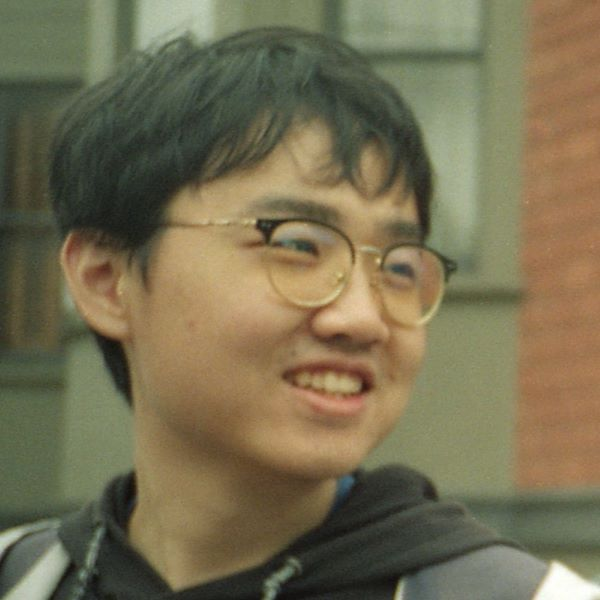
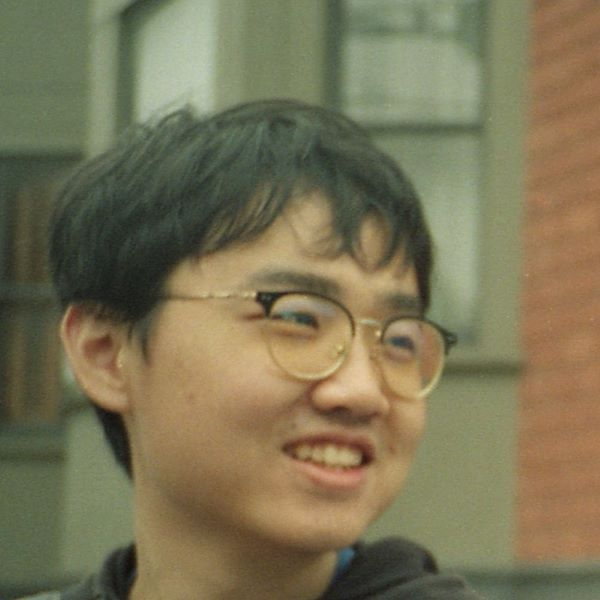
Site updated: 2024-02-05 12:28:25

diff --git a/Experience/index.html b/Experience/index.html
@@ -1,5 +1,5 @@
 <!DOCTYPE html><html lang="en"><head><meta charset="UTF-8"><meta http-equiv="X-UA-Compatible" content="IE=edge"><meta name="viewport" content="width=device-width, initial-scale=1, maximum-scale=5"><title>Fang Chen (谌放)</title><meta name="author" content="Fang Chen"><link rel="shortcut icon" href="/img/favicon.png"><link rel="stylesheet" href="/css/index.css"><link rel="stylesheet" href="https://cdn.jsdelivr.net/npm/font-awesome@latest/css/font-awesome.min.css"><link rel="stylesheet" href="https://cdn.jsdelivr.net/npm/@fortawesome/fontawesome-free@5.13.0/css/all.min.css"><meta name="generator" content="Hexo 7.1.1"><link rel="alternate" href="/atom.xml" title="Fang Chen (谌放)" type="application/atom+xml">
-</head><body><header id="page_header"><div class="header_wrap"><div id="blog_name"><a class="blog_title" id="site-name" href="/">Fang Chen (谌放)</a></div><button class="menus_icon"><div class="navicon"></div></button><ul class="menus_items"><li class="menus_item"><a class="site-page" href="/Publications"> Publications</a></li><li class="menus_item"><a class="site-page" href="/Experience"> Experience</a></li><li class="menus_item"><a class="site-page" href="/Teaching"> Teaching</a></li></ul></div></header><main id="page_main"><div class="side-card sticky"><div class="card-wrap" itemscope itemtype="http://schema.org/Person"><div class="author-avatar"><img class="avatar-img" src="/img/profile.jpg" onerror="this.onerror=null;this.src='/img/profile_new.jpg'" alt="avatar"></div><div class="author-discrip"><h3>Fang Chen</h3><p class="author-bio">Ph.D. student @ University of California Merced</p></div><div class="author-links"><button class="btn m-social-links">Links</button><ul class="social-icons"><li><a class="social-icon" href="https://github.com/C-Fun" target="_blank"><i class="fab fa-github" aria-hidden="true"></i></a></li><li><a class="social-icon" href="https://www.linkedin.com/in/cfun/" target="_blank"><i class="fab fa-linkedin" aria-hidden="true"></i></a></li><li><a class="social-icon" href="mailto:fchen20@ucmerced.edu" target="_blank"><i class="fas fa-envelope" aria-hidden="true"></i></a></li></ul><ul class="social-links"><li><a class="e-social-link" href="https://scholar.google.com/citations?user=5Hu8vwwAAAAJ&amp;hl=en&amp;authuser=1" target="_blank"><i class="fas fa-graduation-cap" aria-hidden="true"></i><span>Google Scholar</span></a></li></ul></div><a class="cv-links" href="/attaches/CV.pdf" target="_blank"><i class="fas fa-file-pdf" aria-hidden="true"><span>My Curriculum Vitae</span></i></a></div></div><div class="page" itemscope itemtype="http://schema.org/CreativeWork"><h2 class="page-title">Experience</h2><article><ul>
+</head><body><header id="page_header"><div class="header_wrap"><div id="blog_name"><a class="blog_title" id="site-name" href="/">Fang Chen (谌放)</a></div><button class="menus_icon"><div class="navicon"></div></button><ul class="menus_items"><li class="menus_item"><a class="site-page" href="/Publications"> Publications</a></li><li class="menus_item"><a class="site-page" href="/Experience"> Experience</a></li><li class="menus_item"><a class="site-page" href="/Teaching"> Teaching</a></li></ul></div></header><main id="page_main"><div class="side-card sticky"><div class="card-wrap" itemscope itemtype="http://schema.org/Person"><div class="author-avatar"><img class="avatar-img" src="/img/profile_new.jpg" onerror="this.onerror=null;this.src='/img/profile_new.jpg'" alt="avatar"></div><div class="author-discrip"><h3>Fang Chen</h3><p class="author-bio">Ph.D. student @ University of California Merced</p></div><div class="author-links"><button class="btn m-social-links">Links</button><ul class="social-icons"><li><a class="social-icon" href="https://github.com/C-Fun" target="_blank"><i class="fab fa-github" aria-hidden="true"></i></a></li><li><a class="social-icon" href="https://www.linkedin.com/in/cfun/" target="_blank"><i class="fab fa-linkedin" aria-hidden="true"></i></a></li><li><a class="social-icon" href="mailto:fchen20@ucmerced.edu" target="_blank"><i class="fas fa-envelope" aria-hidden="true"></i></a></li></ul><ul class="social-links"><li><a class="e-social-link" href="https://scholar.google.com/citations?user=5Hu8vwwAAAAJ&amp;hl=en&amp;authuser=1" target="_blank"><i class="fas fa-graduation-cap" aria-hidden="true"></i><span>Google Scholar</span></a></li></ul></div><a class="cv-links" href="/attaches/CV.pdf" target="_blank"><i class="fas fa-file-pdf" aria-hidden="true"><span>My Curriculum Vitae</span></i></a></div></div><div class="page" itemscope itemtype="http://schema.org/CreativeWork"><h2 class="page-title">Experience</h2><article><ul>
 <li><a target="_blank" rel="noopener" href="https://intelailabpage.github.io/"><strong>Intel AI Lab</strong></a> | Graduate Intern (May 2022 - Jan. 2023)</li>
 </ul>
 </article></div></main><div class="nav-wrap"><div class="nav"><button class="site-nav"><div class="navicon"></div></button><ul class="nav_items"><li class="nav_item"><a class="nav-page" href="/Publications"> Publications</a></li><li class="nav_item"><a class="nav-page" href="/Experience"> Experience</a></li><li class="nav_item"><a class="nav-page" href="/Teaching"> Teaching</a></li></ul></div><div class="cd-top"><i class="fa fa-arrow-up" aria-hidden="true"></i></div></div><footer id="page_footer"><div class="footer_wrap"><div class="copyright">&copy;2021 - 2024 by Fang Chen</div><div class="theme-info">Powered by <a target="_blank" href="https://hexo.io" rel="nofollow noopener">Hexo</a> & <a target="_blank" href="https://github.com/PhosphorW/hexo-theme-academia" rel="nofollow noopener">Academia Theme</a></div></div></footer><script src="https://cdn.jsdelivr.net/npm/jquery@latest/dist/jquery.min.js"></script><script src="https://cdn.jsdelivr.net/npm/jquery-pjax@latest/jquery.pjax.min.js"></script><script src="/js/main.js"></script></body></html>

diff --git a/Teaching/index.html b/Teaching/index.html
@@ -1,5 +1,5 @@
 <!DOCTYPE html><html lang="en"><head><meta charset="UTF-8"><meta http-equiv="X-UA-Compatible" content="IE=edge"><meta name="viewport" content="width=device-width, initial-scale=1, maximum-scale=5"><title>Fang Chen (谌放)</title><meta name="author" content="Fang Chen"><link rel="shortcut icon" href="/img/favicon.png"><link rel="stylesheet" href="/css/index.css"><link rel="stylesheet" href="https://cdn.jsdelivr.net/npm/font-awesome@latest/css/font-awesome.min.css"><link rel="stylesheet" href="https://cdn.jsdelivr.net/npm/@fortawesome/fontawesome-free@5.13.0/css/all.min.css"><meta name="generator" content="Hexo 7.1.1"><link rel="alternate" href="/atom.xml" title="Fang Chen (谌放)" type="application/atom+xml">
-</head><body><header id="page_header"><div class="header_wrap"><div id="blog_name"><a class="blog_title" id="site-name" href="/">Fang Chen (谌放)</a></div><button class="menus_icon"><div class="navicon"></div></button><ul class="menus_items"><li class="menus_item"><a class="site-page" href="/Publications"> Publications</a></li><li class="menus_item"><a class="site-page" href="/Experience"> Experience</a></li><li class="menus_item"><a class="site-page" href="/Teaching"> Teaching</a></li></ul></div></header><main id="page_main"><div class="side-card sticky"><div class="card-wrap" itemscope itemtype="http://schema.org/Person"><div class="author-avatar"><img class="avatar-img" src="/img/profile.jpg" onerror="this.onerror=null;this.src='/img/profile_new.jpg'" alt="avatar"></div><div class="author-discrip"><h3>Fang Chen</h3><p class="author-bio">Ph.D. student @ University of California Merced</p></div><div class="author-links"><button class="btn m-social-links">Links</button><ul class="social-icons"><li><a class="social-icon" href="https://github.com/C-Fun" target="_blank"><i class="fab fa-github" aria-hidden="true"></i></a></li><li><a class="social-icon" href="https://www.linkedin.com/in/cfun/" target="_blank"><i class="fab fa-linkedin" aria-hidden="true"></i></a></li><li><a class="social-icon" href="mailto:fchen20@ucmerced.edu" target="_blank"><i class="fas fa-envelope" aria-hidden="true"></i></a></li></ul><ul class="social-links"><li><a class="e-social-link" href="https://scholar.google.com/citations?user=5Hu8vwwAAAAJ&amp;hl=en&amp;authuser=1" target="_blank"><i class="fas fa-graduation-cap" aria-hidden="true"></i><span>Google Scholar</span></a></li></ul></div><a class="cv-links" href="/attaches/CV.pdf" target="_blank"><i class="fas fa-file-pdf" aria-hidden="true"><span>My Curriculum Vitae</span></i></a></div></div><div class="page" itemscope itemtype="http://schema.org/CreativeWork"><h2 class="page-title">Teaching</h2><article><ul>
+</head><body><header id="page_header"><div class="header_wrap"><div id="blog_name"><a class="blog_title" id="site-name" href="/">Fang Chen (谌放)</a></div><button class="menus_icon"><div class="navicon"></div></button><ul class="menus_items"><li class="menus_item"><a class="site-page" href="/Publications"> Publications</a></li><li class="menus_item"><a class="site-page" href="/Experience"> Experience</a></li><li class="menus_item"><a class="site-page" href="/Teaching"> Teaching</a></li></ul></div></header><main id="page_main"><div class="side-card sticky"><div class="card-wrap" itemscope itemtype="http://schema.org/Person"><div class="author-avatar"><img class="avatar-img" src="/img/profile_new.jpg" onerror="this.onerror=null;this.src='/img/profile_new.jpg'" alt="avatar"></div><div class="author-discrip"><h3>Fang Chen</h3><p class="author-bio">Ph.D. student @ University of California Merced</p></div><div class="author-links"><button class="btn m-social-links">Links</button><ul class="social-icons"><li><a class="social-icon" href="https://github.com/C-Fun" target="_blank"><i class="fab fa-github" aria-hidden="true"></i></a></li><li><a class="social-icon" href="https://www.linkedin.com/in/cfun/" target="_blank"><i class="fab fa-linkedin" aria-hidden="true"></i></a></li><li><a class="social-icon" href="mailto:fchen20@ucmerced.edu" target="_blank"><i class="fas fa-envelope" aria-hidden="true"></i></a></li></ul><ul class="social-links"><li><a class="e-social-link" href="https://scholar.google.com/citations?user=5Hu8vwwAAAAJ&amp;hl=en&amp;authuser=1" target="_blank"><i class="fas fa-graduation-cap" aria-hidden="true"></i><span>Google Scholar</span></a></li></ul></div><a class="cv-links" href="/attaches/CV.pdf" target="_blank"><i class="fas fa-file-pdf" aria-hidden="true"><span>My Curriculum Vitae</span></i></a></div></div><div class="page" itemscope itemtype="http://schema.org/CreativeWork"><h2 class="page-title">Teaching</h2><article><ul>
 <li><strong>CSE 170: Computer Graphics, Lab Session</strong> | undergraduate course, UC Merced, 2024 spring</li>
 </ul>
 </article></div></main><div class="nav-wrap"><div class="nav"><button class="site-nav"><div class="navicon"></div></button><ul class="nav_items"><li class="nav_item"><a class="nav-page" href="/Publications"> Publications</a></li><li class="nav_item"><a class="nav-page" href="/Experience"> Experience</a></li><li class="nav_item"><a class="nav-page" href="/Teaching"> Teaching</a></li></ul></div><div class="cd-top"><i class="fa fa-arrow-up" aria-hidden="true"></i></div></div><footer id="page_footer"><div class="footer_wrap"><div class="copyright">&copy;2021 - 2024 by Fang Chen</div><div class="theme-info">Powered by <a target="_blank" href="https://hexo.io" rel="nofollow noopener">Hexo</a> & <a target="_blank" href="https://github.com/PhosphorW/hexo-theme-academia" rel="nofollow noopener">Academia Theme</a></div></div></footer><script src="https://cdn.jsdelivr.net/npm/jquery@latest/dist/jquery.min.js"></script><script src="https://cdn.jsdelivr.net/npm/jquery-pjax@latest/jquery.pjax.min.js"></script><script src="/js/main.js"></script></body></html>

diff --git a/2024/01/23/About/index.html b/2024/01/23/About/index.html
@@ -1,5 +1,5 @@
 <!DOCTYPE html><html lang="en"><head><meta charset="UTF-8"><meta http-equiv="X-UA-Compatible" content="IE=edge"><meta name="viewport" content="width=device-width, initial-scale=1, maximum-scale=5"><title>Fang Chen (谌放)</title><meta name="author" content="Fang Chen"><link rel="shortcut icon" href="/img/favicon.png"><link rel="stylesheet" href="/css/index.css"><link rel="stylesheet" href="https://cdn.jsdelivr.net/npm/font-awesome@latest/css/font-awesome.min.css"><link rel="stylesheet" href="https://cdn.jsdelivr.net/npm/@fortawesome/fontawesome-free@5.13.0/css/all.min.css"><meta name="generator" content="Hexo 7.1.1"><link rel="alternate" href="/atom.xml" title="Fang Chen (谌放)" type="application/atom+xml">
-</head><body><header id="page_header"><div class="header_wrap"><div id="blog_name"><a class="blog_title" id="site-name" href="/">Fang Chen (谌放)</a></div><button class="menus_icon"><div class="navicon"></div></button><ul class="menus_items"><li class="menus_item"><a class="site-page" href="/Publications"> Publications</a></li><li class="menus_item"><a class="site-page" href="/Experience"> Experience</a></li><li class="menus_item"><a class="site-page" href="/Teaching"> Teaching</a></li></ul></div></header><main id="page_main"><div class="side-card sticky"><div class="card-wrap" itemscope itemtype="http://schema.org/Person"><div class="author-avatar"><img class="avatar-img" src="/img/profile.jpg" onerror="this.onerror=null;this.src='/img/profile_new.jpg'" alt="avatar"></div><div class="author-discrip"><h3>Fang Chen</h3><p class="author-bio">Ph.D. student @ University of California Merced</p></div><div class="author-links"><button class="btn m-social-links">Links</button><ul class="social-icons"><li><a class="social-icon" href="https://github.com/C-Fun" target="_blank"><i class="fab fa-github" aria-hidden="true"></i></a></li><li><a class="social-icon" href="https://www.linkedin.com/in/cfun/" target="_blank"><i class="fab fa-linkedin" aria-hidden="true"></i></a></li><li><a class="social-icon" href="mailto:fchen20@ucmerced.edu" target="_blank"><i class="fas fa-envelope" aria-hidden="true"></i></a></li></ul><ul class="social-links"><li><a class="e-social-link" href="https://scholar.google.com/citations?user=5Hu8vwwAAAAJ&amp;hl=en&amp;authuser=1" target="_blank"><i class="fas fa-graduation-cap" aria-hidden="true"></i><span>Google Scholar</span></a></li></ul></div><a class="cv-links" href="/attaches/CV.pdf" target="_blank"><i class="fas fa-file-pdf" aria-hidden="true"><span>My Curriculum Vitae</span></i></a></div></div><div class="page" itemscope itemtype="http://schema.org/CreativeWork"><h2 class="page-title">About</h2><article><h1 id="About-Me"><a href="#About-Me" class="headerlink" title="About Me"></a>About Me</h1><p> I am a first-year CS Ph.D. student at EECS of University of California Merced, supervised by <a target="_blank" rel="noopener" href="http://mengtang.org/">Prof. Meng Tang</a>. </p>
+</head><body><header id="page_header"><div class="header_wrap"><div id="blog_name"><a class="blog_title" id="site-name" href="/">Fang Chen (谌放)</a></div><button class="menus_icon"><div class="navicon"></div></button><ul class="menus_items"><li class="menus_item"><a class="site-page" href="/Publications"> Publications</a></li><li class="menus_item"><a class="site-page" href="/Experience"> Experience</a></li><li class="menus_item"><a class="site-page" href="/Teaching"> Teaching</a></li></ul></div></header><main id="page_main"><div class="side-card sticky"><div class="card-wrap" itemscope itemtype="http://schema.org/Person"><div class="author-avatar"><img class="avatar-img" src="/img/profile_new.jpg" onerror="this.onerror=null;this.src='/img/profile_new.jpg'" alt="avatar"></div><div class="author-discrip"><h3>Fang Chen</h3><p class="author-bio">Ph.D. student @ University of California Merced</p></div><div class="author-links"><button class="btn m-social-links">Links</button><ul class="social-icons"><li><a class="social-icon" href="https://github.com/C-Fun" target="_blank"><i class="fab fa-github" aria-hidden="true"></i></a></li><li><a class="social-icon" href="https://www.linkedin.com/in/cfun/" target="_blank"><i class="fab fa-linkedin" aria-hidden="true"></i></a></li><li><a class="social-icon" href="mailto:fchen20@ucmerced.edu" target="_blank"><i class="fas fa-envelope" aria-hidden="true"></i></a></li></ul><ul class="social-links"><li><a class="e-social-link" href="https://scholar.google.com/citations?user=5Hu8vwwAAAAJ&amp;hl=en&amp;authuser=1" target="_blank"><i class="fas fa-graduation-cap" aria-hidden="true"></i><span>Google Scholar</span></a></li></ul></div><a class="cv-links" href="/attaches/CV.pdf" target="_blank"><i class="fas fa-file-pdf" aria-hidden="true"><span>My Curriculum Vitae</span></i></a></div></div><div class="page" itemscope itemtype="http://schema.org/CreativeWork"><h2 class="page-title">About</h2><article><h1 id="About-Me"><a href="#About-Me" class="headerlink" title="About Me"></a>About Me</h1><p> I am a first-year CS Ph.D. student at EECS of University of California Merced, supervised by <a target="_blank" rel="noopener" href="http://mengtang.org/">Prof. Meng Tang</a>. </p>
 <p> Previously, I received my M.S. degree in Electrical Engineering at University of Southern California, working with <a target="_blank" rel="noopener" href="https://sites.usc.edu/eessc/">EESSC</a>.<br> I received my B.E. degree in Digital Media Technology at Chongqing University of Posts and Telecommunications, supervised by <a target="_blank" rel="noopener" href="https://gaocq.github.io/">Prof. Chenqiang Gao</a>.</p>
 <p> My research interests are computer vision and efficient deep learning. More specifically,</p>
 <ul>

diff --git a/archives/2024/01/index.html b/archives/2024/01/index.html
@@ -1,5 +1,5 @@
 <!DOCTYPE html><html lang="en"><head><meta charset="UTF-8"><meta http-equiv="X-UA-Compatible" content="IE=edge"><meta name="viewport" content="width=device-width, initial-scale=1, maximum-scale=5"><title>Fang Chen (谌放)</title><meta name="author" content="Fang Chen"><link rel="shortcut icon" href="/img/favicon.png"><link rel="stylesheet" href="/css/index.css"><link rel="stylesheet" href="https://cdn.jsdelivr.net/npm/font-awesome@latest/css/font-awesome.min.css"><link rel="stylesheet" href="https://cdn.jsdelivr.net/npm/@fortawesome/fontawesome-free@5.13.0/css/all.min.css"><meta name="generator" content="Hexo 7.1.1"><link rel="alternate" href="/atom.xml" title="Fang Chen (谌放)" type="application/atom+xml">
-</head><body><header id="page_header"><div class="header_wrap"><div id="blog_name"><a class="blog_title" id="site-name" href="/">Fang Chen (谌放)</a></div><button class="menus_icon"><div class="navicon"></div></button><ul class="menus_items"><li class="menus_item"><a class="site-page" href="/Publications"> Publications</a></li><li class="menus_item"><a class="site-page" href="/Experience"> Experience</a></li><li class="menus_item"><a class="site-page" href="/Teaching"> Teaching</a></li></ul></div></header><main id="page_main"><div class="side-card sticky"><div class="card-wrap" itemscope itemtype="http://schema.org/Person"><div class="author-avatar"><img class="avatar-img" src="/img/profile.jpg" onerror="this.onerror=null;this.src='/img/profile_new.jpg'" alt="avatar"></div><div class="author-discrip"><h3>Fang Chen</h3><p class="author-bio">Ph.D. student @ University of California Merced</p></div><div class="author-links"><button class="btn m-social-links">Links</button><ul class="social-icons"><li><a class="social-icon" href="https://github.com/C-Fun" target="_blank"><i class="fab fa-github" aria-hidden="true"></i></a></li><li><a class="social-icon" href="https://www.linkedin.com/in/cfun/" target="_blank"><i class="fab fa-linkedin" aria-hidden="true"></i></a></li><li><a class="social-icon" href="mailto:fchen20@ucmerced.edu" target="_blank"><i class="fas fa-envelope" aria-hidden="true"></i></a></li></ul><ul class="social-links"><li><a class="e-social-link" href="https://scholar.google.com/citations?user=5Hu8vwwAAAAJ&amp;hl=en&amp;authuser=1" target="_blank"><i class="fas fa-graduation-cap" aria-hidden="true"></i><span>Google Scholar</span></a></li></ul></div><a class="cv-links" href="/attaches/CV.pdf" target="_blank"><i class="fas fa-file-pdf" aria-hidden="true"><span>My Curriculum Vitae</span></i></a></div></div><div class="page" itemscope itemtype="http://schema.org/CreativeWork"><article><h1 id="About-Me"><a href="#About-Me" class="headerlink" title="About Me"></a>About Me</h1><p> I am a first-year CS Ph.D. student at EECS of University of California Merced, supervised by <a target="_blank" rel="noopener" href="http://mengtang.org/">Prof. Meng Tang</a>. </p>
+</head><body><header id="page_header"><div class="header_wrap"><div id="blog_name"><a class="blog_title" id="site-name" href="/">Fang Chen (谌放)</a></div><button class="menus_icon"><div class="navicon"></div></button><ul class="menus_items"><li class="menus_item"><a class="site-page" href="/Publications"> Publications</a></li><li class="menus_item"><a class="site-page" href="/Experience"> Experience</a></li><li class="menus_item"><a class="site-page" href="/Teaching"> Teaching</a></li></ul></div></header><main id="page_main"><div class="side-card sticky"><div class="card-wrap" itemscope itemtype="http://schema.org/Person"><div class="author-avatar"><img class="avatar-img" src="/img/profile_new.jpg" onerror="this.onerror=null;this.src='/img/profile_new.jpg'" alt="avatar"></div><div class="author-discrip"><h3>Fang Chen</h3><p class="author-bio">Ph.D. student @ University of California Merced</p></div><div class="author-links"><button class="btn m-social-links">Links</button><ul class="social-icons"><li><a class="social-icon" href="https://github.com/C-Fun" target="_blank"><i class="fab fa-github" aria-hidden="true"></i></a></li><li><a class="social-icon" href="https://www.linkedin.com/in/cfun/" target="_blank"><i class="fab fa-linkedin" aria-hidden="true"></i></a></li><li><a class="social-icon" href="mailto:fchen20@ucmerced.edu" target="_blank"><i class="fas fa-envelope" aria-hidden="true"></i></a></li></ul><ul class="social-links"><li><a class="e-social-link" href="https://scholar.google.com/citations?user=5Hu8vwwAAAAJ&amp;hl=en&amp;authuser=1" target="_blank"><i class="fas fa-graduation-cap" aria-hidden="true"></i><span>Google Scholar</span></a></li></ul></div><a class="cv-links" href="/attaches/CV.pdf" target="_blank"><i class="fas fa-file-pdf" aria-hidden="true"><span>My Curriculum Vitae</span></i></a></div></div><div class="page" itemscope itemtype="http://schema.org/CreativeWork"><article><h1 id="About-Me"><a href="#About-Me" class="headerlink" title="About Me"></a>About Me</h1><p> I am a first-year CS Ph.D. student at EECS of University of California Merced, supervised by <a target="_blank" rel="noopener" href="http://mengtang.org/">Prof. Meng Tang</a>. </p>
 <p> Previously, I received my M.S. degree in Electrical Engineering at University of Southern California, working with <a target="_blank" rel="noopener" href="https://sites.usc.edu/eessc/">EESSC</a>.<br> I received my B.E. degree in Digital Media Technology at Chongqing University of Posts and Telecommunications, supervised by <a target="_blank" rel="noopener" href="https://gaocq.github.io/">Prof. Chenqiang Gao</a>.</p>
 <p> My research interests are computer vision and efficient deep learning. More specifically,</p>
 <ul>

diff --git a/archives/2024/index.html b/archives/2024/index.html
@@ -1,5 +1,5 @@
 <!DOCTYPE html><html lang="en"><head><meta charset="UTF-8"><meta http-equiv="X-UA-Compatible" content="IE=edge"><meta name="viewport" content="width=device-width, initial-scale=1, maximum-scale=5"><title>Fang Chen (谌放)</title><meta name="author" content="Fang Chen"><link rel="shortcut icon" href="/img/favicon.png"><link rel="stylesheet" href="/css/index.css"><link rel="stylesheet" href="https://cdn.jsdelivr.net/npm/font-awesome@latest/css/font-awesome.min.css"><link rel="stylesheet" href="https://cdn.jsdelivr.net/npm/@fortawesome/fontawesome-free@5.13.0/css/all.min.css"><meta name="generator" content="Hexo 7.1.1"><link rel="alternate" href="/atom.xml" title="Fang Chen (谌放)" type="application/atom+xml">
-</head><body><header id="page_header"><div class="header_wrap"><div id="blog_name"><a class="blog_title" id="site-name" href="/">Fang Chen (谌放)</a></div><button class="menus_icon"><div class="navicon"></div></button><ul class="menus_items"><li class="menus_item"><a class="site-page" href="/Publications"> Publications</a></li><li class="menus_item"><a class="site-page" href="/Experience"> Experience</a></li><li class="menus_item"><a class="site-page" href="/Teaching"> Teaching</a></li></ul></div></header><main id="page_main"><div class="side-card sticky"><div class="card-wrap" itemscope itemtype="http://schema.org/Person"><div class="author-avatar"><img class="avatar-img" src="/img/profile.jpg" onerror="this.onerror=null;this.src='/img/profile_new.jpg'" alt="avatar"></div><div class="author-discrip"><h3>Fang Chen</h3><p class="author-bio">Ph.D. student @ University of California Merced</p></div><div class="author-links"><button class="btn m-social-links">Links</button><ul class="social-icons"><li><a class="social-icon" href="https://github.com/C-Fun" target="_blank"><i class="fab fa-github" aria-hidden="true"></i></a></li><li><a class="social-icon" href="https://www.linkedin.com/in/cfun/" target="_blank"><i class="fab fa-linkedin" aria-hidden="true"></i></a></li><li><a class="social-icon" href="mailto:fchen20@ucmerced.edu" target="_blank"><i class="fas fa-envelope" aria-hidden="true"></i></a></li></ul><ul class="social-links"><li><a class="e-social-link" href="https://scholar.google.com/citations?user=5Hu8vwwAAAAJ&amp;hl=en&amp;authuser=1" target="_blank"><i class="fas fa-graduation-cap" aria-hidden="true"></i><span>Google Scholar</span></a></li></ul></div><a class="cv-links" href="/attaches/CV.pdf" target="_blank"><i class="fas fa-file-pdf" aria-hidden="true"><span>My Curriculum Vitae</span></i></a></div></div><div class="page" itemscope itemtype="http://schema.org/CreativeWork"><article><h1 id="About-Me"><a href="#About-Me" class="headerlink" title="About Me"></a>About Me</h1><p> I am a first-year CS Ph.D. student at EECS of University of California Merced, supervised by <a target="_blank" rel="noopener" href="http://mengtang.org/">Prof. Meng Tang</a>. </p>
+</head><body><header id="page_header"><div class="header_wrap"><div id="blog_name"><a class="blog_title" id="site-name" href="/">Fang Chen (谌放)</a></div><button class="menus_icon"><div class="navicon"></div></button><ul class="menus_items"><li class="menus_item"><a class="site-page" href="/Publications"> Publications</a></li><li class="menus_item"><a class="site-page" href="/Experience"> Experience</a></li><li class="menus_item"><a class="site-page" href="/Teaching"> Teaching</a></li></ul></div></header><main id="page_main"><div class="side-card sticky"><div class="card-wrap" itemscope itemtype="http://schema.org/Person"><div class="author-avatar"><img class="avatar-img" src="/img/profile_new.jpg" onerror="this.onerror=null;this.src='/img/profile_new.jpg'" alt="avatar"></div><div class="author-discrip"><h3>Fang Chen</h3><p class="author-bio">Ph.D. student @ University of California Merced</p></div><div class="author-links"><button class="btn m-social-links">Links</button><ul class="social-icons"><li><a class="social-icon" href="https://github.com/C-Fun" target="_blank"><i class="fab fa-github" aria-hidden="true"></i></a></li><li><a class="social-icon" href="https://www.linkedin.com/in/cfun/" target="_blank"><i class="fab fa-linkedin" aria-hidden="true"></i></a></li><li><a class="social-icon" href="mailto:fchen20@ucmerced.edu" target="_blank"><i class="fas fa-envelope" aria-hidden="true"></i></a></li></ul><ul class="social-links"><li><a class="e-social-link" href="https://scholar.google.com/citations?user=5Hu8vwwAAAAJ&amp;hl=en&amp;authuser=1" target="_blank"><i class="fas fa-graduation-cap" aria-hidden="true"></i><span>Google Scholar</span></a></li></ul></div><a class="cv-links" href="/attaches/CV.pdf" target="_blank"><i class="fas fa-file-pdf" aria-hidden="true"><span>My Curriculum Vitae</span></i></a></div></div><div class="page" itemscope itemtype="http://schema.org/CreativeWork"><article><h1 id="About-Me"><a href="#About-Me" class="headerlink" title="About Me"></a>About Me</h1><p> I am a first-year CS Ph.D. student at EECS of University of California Merced, supervised by <a target="_blank" rel="noopener" href="http://mengtang.org/">Prof. Meng Tang</a>. </p>
 <p> Previously, I received my M.S. degree in Electrical Engineering at University of Southern California, working with <a target="_blank" rel="noopener" href="https://sites.usc.edu/eessc/">EESSC</a>.<br> I received my B.E. degree in Digital Media Technology at Chongqing University of Posts and Telecommunications, supervised by <a target="_blank" rel="noopener" href="https://gaocq.github.io/">Prof. Chenqiang Gao</a>.</p>
 <p> My research interests are computer vision and efficient deep learning. More specifically,</p>
 <ul>

diff --git a/archives/index.html b/archives/index.html
@@ -1,5 +1,5 @@
 <!DOCTYPE html><html lang="en"><head><meta charset="UTF-8"><meta http-equiv="X-UA-Compatible" content="IE=edge"><meta name="viewport" content="width=device-width, initial-scale=1, maximum-scale=5"><title>Fang Chen (谌放)</title><meta name="author" content="Fang Chen"><link rel="shortcut icon" href="/img/favicon.png"><link rel="stylesheet" href="/css/index.css"><link rel="stylesheet" href="https://cdn.jsdelivr.net/npm/font-awesome@latest/css/font-awesome.min.css"><link rel="stylesheet" href="https://cdn.jsdelivr.net/npm/@fortawesome/fontawesome-free@5.13.0/css/all.min.css"><meta name="generator" content="Hexo 7.1.1"><link rel="alternate" href="/atom.xml" title="Fang Chen (谌放)" type="application/atom+xml">
-</head><body><header id="page_header"><div class="header_wrap"><div id="blog_name"><a class="blog_title" id="site-name" href="/">Fang Chen (谌放)</a></div><button class="menus_icon"><div class="navicon"></div></button><ul class="menus_items"><li class="menus_item"><a class="site-page" href="/Publications"> Publications</a></li><li class="menus_item"><a class="site-page" href="/Experience"> Experience</a></li><li class="menus_item"><a class="site-page" href="/Teaching"> Teaching</a></li></ul></div></header><main id="page_main"><div class="side-card sticky"><div class="card-wrap" itemscope itemtype="http://schema.org/Person"><div class="author-avatar"><img class="avatar-img" src="/img/profile.jpg" onerror="this.onerror=null;this.src='/img/profile_new.jpg'" alt="avatar"></div><div class="author-discrip"><h3>Fang Chen</h3><p class="author-bio">Ph.D. student @ University of California Merced</p></div><div class="author-links"><button class="btn m-social-links">Links</button><ul class="social-icons"><li><a class="social-icon" href="https://github.com/C-Fun" target="_blank"><i class="fab fa-github" aria-hidden="true"></i></a></li><li><a class="social-icon" href="https://www.linkedin.com/in/cfun/" target="_blank"><i class="fab fa-linkedin" aria-hidden="true"></i></a></li><li><a class="social-icon" href="mailto:fchen20@ucmerced.edu" target="_blank"><i class="fas fa-envelope" aria-hidden="true"></i></a></li></ul><ul class="social-links"><li><a class="e-social-link" href="https://scholar.google.com/citations?user=5Hu8vwwAAAAJ&amp;hl=en&amp;authuser=1" target="_blank"><i class="fas fa-graduation-cap" aria-hidden="true"></i><span>Google Scholar</span></a></li></ul></div><a class="cv-links" href="/attaches/CV.pdf" target="_blank"><i class="fas fa-file-pdf" aria-hidden="true"><span>My Curriculum Vitae</span></i></a></div></div><div class="page" itemscope itemtype="http://schema.org/CreativeWork"><article><h1 id="About-Me"><a href="#About-Me" class="headerlink" title="About Me"></a>About Me</h1><p> I am a first-year CS Ph.D. student at EECS of University of California Merced, supervised by <a target="_blank" rel="noopener" href="http://mengtang.org/">Prof. Meng Tang</a>. </p>
+</head><body><header id="page_header"><div class="header_wrap"><div id="blog_name"><a class="blog_title" id="site-name" href="/">Fang Chen (谌放)</a></div><button class="menus_icon"><div class="navicon"></div></button><ul class="menus_items"><li class="menus_item"><a class="site-page" href="/Publications"> Publications</a></li><li class="menus_item"><a class="site-page" href="/Experience"> Experience</a></li><li class="menus_item"><a class="site-page" href="/Teaching"> Teaching</a></li></ul></div></header><main id="page_main"><div class="side-card sticky"><div class="card-wrap" itemscope itemtype="http://schema.org/Person"><div class="author-avatar"><img class="avatar-img" src="/img/profile_new.jpg" onerror="this.onerror=null;this.src='/img/profile_new.jpg'" alt="avatar"></div><div class="author-discrip"><h3>Fang Chen</h3><p class="author-bio">Ph.D. student @ University of California Merced</p></div><div class="author-links"><button class="btn m-social-links">Links</button><ul class="social-icons"><li><a class="social-icon" href="https://github.com/C-Fun" target="_blank"><i class="fab fa-github" aria-hidden="true"></i></a></li><li><a class="social-icon" href="https://www.linkedin.com/in/cfun/" target="_blank"><i class="fab fa-linkedin" aria-hidden="true"></i></a></li><li><a class="social-icon" href="mailto:fchen20@ucmerced.edu" target="_blank"><i class="fas fa-envelope" aria-hidden="true"></i></a></li></ul><ul class="social-links"><li><a class="e-social-link" href="https://scholar.google.com/citations?user=5Hu8vwwAAAAJ&amp;hl=en&amp;authuser=1" target="_blank"><i class="fas fa-graduation-cap" aria-hidden="true"></i><span>Google Scholar</span></a></li></ul></div><a class="cv-links" href="/attaches/CV.pdf" target="_blank"><i class="fas fa-file-pdf" aria-hidden="true"><span>My Curriculum Vitae</span></i></a></div></div><div class="page" itemscope itemtype="http://schema.org/CreativeWork"><article><h1 id="About-Me"><a href="#About-Me" class="headerlink" title="About Me"></a>About Me</h1><p> I am a first-year CS Ph.D. student at EECS of University of California Merced, supervised by <a target="_blank" rel="noopener" href="http://mengtang.org/">Prof. Meng Tang</a>. </p>
 <p> Previously, I received my M.S. degree in Electrical Engineering at University of Southern California, working with <a target="_blank" rel="noopener" href="https://sites.usc.edu/eessc/">EESSC</a>.<br> I received my B.E. degree in Digital Media Technology at Chongqing University of Posts and Telecommunications, supervised by <a target="_blank" rel="noopener" href="https://gaocq.github.io/">Prof. Chenqiang Gao</a>.</p>
 <p> My research interests are computer vision and efficient deep learning. More specifically,</p>
 <ul>

diff --git a/index.html b/index.html
@@ -1,5 +1,5 @@
 <!DOCTYPE html><html lang="en"><head><meta charset="UTF-8"><meta http-equiv="X-UA-Compatible" content="IE=edge"><meta name="viewport" content="width=device-width, initial-scale=1, maximum-scale=5"><title>Fang Chen (谌放)</title><meta name="author" content="Fang Chen"><link rel="shortcut icon" href="/img/favicon.png"><link rel="stylesheet" href="/css/index.css"><link rel="stylesheet" href="https://cdn.jsdelivr.net/npm/font-awesome@latest/css/font-awesome.min.css"><link rel="stylesheet" href="https://cdn.jsdelivr.net/npm/@fortawesome/fontawesome-free@5.13.0/css/all.min.css"><meta name="generator" content="Hexo 7.1.1"><link rel="alternate" href="/atom.xml" title="Fang Chen (谌放)" type="application/atom+xml">
-</head><body><header id="page_header"><div class="header_wrap"><div id="blog_name"><a class="blog_title" id="site-name" href="/">Fang Chen (谌放)</a></div><button class="menus_icon"><div class="navicon"></div></button><ul class="menus_items"><li class="menus_item"><a class="site-page" href="/Publications"> Publications</a></li><li class="menus_item"><a class="site-page" href="/Experience"> Experience</a></li><li class="menus_item"><a class="site-page" href="/Teaching"> Teaching</a></li></ul></div></header><main id="page_main"><div class="side-card sticky"><div class="card-wrap" itemscope itemtype="http://schema.org/Person"><div class="author-avatar"><img class="avatar-img" src="/img/profile.jpg" onerror="this.onerror=null;this.src='/img/profile_new.jpg'" alt="avatar"></div><div class="author-discrip"><h3>Fang Chen</h3><p class="author-bio">Ph.D. student @ University of California Merced</p></div><div class="author-links"><button class="btn m-social-links">Links</button><ul class="social-icons"><li><a class="social-icon" href="https://github.com/C-Fun" target="_blank"><i class="fab fa-github" aria-hidden="true"></i></a></li><li><a class="social-icon" href="https://www.linkedin.com/in/cfun/" target="_blank"><i class="fab fa-linkedin" aria-hidden="true"></i></a></li><li><a class="social-icon" href="mailto:fchen20@ucmerced.edu" target="_blank"><i class="fas fa-envelope" aria-hidden="true"></i></a></li></ul><ul class="social-links"><li><a class="e-social-link" href="https://scholar.google.com/citations?user=5Hu8vwwAAAAJ&amp;hl=en&amp;authuser=1" target="_blank"><i class="fas fa-graduation-cap" aria-hidden="true"></i><span>Google Scholar</span></a></li></ul></div><a class="cv-links" href="/attaches/CV.pdf" target="_blank"><i class="fas fa-file-pdf" aria-hidden="true"><span>My Curriculum Vitae</span></i></a></div></div><div class="page" itemscope itemtype="http://schema.org/CreativeWork"><article><h1 id="About-Me"><a href="#About-Me" class="headerlink" title="About Me"></a>About Me</h1><p> I am a first-year CS Ph.D. student at EECS of University of California Merced, supervised by <a target="_blank" rel="noopener" href="http://mengtang.org/">Prof. Meng Tang</a>. </p>
+</head><body><header id="page_header"><div class="header_wrap"><div id="blog_name"><a class="blog_title" id="site-name" href="/">Fang Chen (谌放)</a></div><button class="menus_icon"><div class="navicon"></div></button><ul class="menus_items"><li class="menus_item"><a class="site-page" href="/Publications"> Publications</a></li><li class="menus_item"><a class="site-page" href="/Experience"> Experience</a></li><li class="menus_item"><a class="site-page" href="/Teaching"> Teaching</a></li></ul></div></header><main id="page_main"><div class="side-card sticky"><div class="card-wrap" itemscope itemtype="http://schema.org/Person"><div class="author-avatar"><img class="avatar-img" src="/img/profile_new.jpg" onerror="this.onerror=null;this.src='/img/profile_new.jpg'" alt="avatar"></div><div class="author-discrip"><h3>Fang Chen</h3><p class="author-bio">Ph.D. student @ University of California Merced</p></div><div class="author-links"><button class="btn m-social-links">Links</button><ul class="social-icons"><li><a class="social-icon" href="https://github.com/C-Fun" target="_blank"><i class="fab fa-github" aria-hidden="true"></i></a></li><li><a class="social-icon" href="https://www.linkedin.com/in/cfun/" target="_blank"><i class="fab fa-linkedin" aria-hidden="true"></i></a></li><li><a class="social-icon" href="mailto:fchen20@ucmerced.edu" target="_blank"><i class="fas fa-envelope" aria-hidden="true"></i></a></li></ul><ul class="social-links"><li><a class="e-social-link" href="https://scholar.google.com/citations?user=5Hu8vwwAAAAJ&amp;hl=en&amp;authuser=1" target="_blank"><i class="fas fa-graduation-cap" aria-hidden="true"></i><span>Google Scholar</span></a></li></ul></div><a class="cv-links" href="/attaches/CV.pdf" target="_blank"><i class="fas fa-file-pdf" aria-hidden="true"><span>My Curriculum Vitae</span></i></a></div></div><div class="page" itemscope itemtype="http://schema.org/CreativeWork"><article><h1 id="About-Me"><a href="#About-Me" class="headerlink" title="About Me"></a>About Me</h1><p> I am a first-year CS Ph.D. student at EECS of University of California Merced, supervised by <a target="_blank" rel="noopener" href="http://mengtang.org/">Prof. Meng Tang</a>. </p>
 <p> Previously, I received my M.S. degree in Electrical Engineering at University of Southern California, working with <a target="_blank" rel="noopener" href="https://sites.usc.edu/eessc/">EESSC</a>.<br> I received my B.E. degree in Digital Media Technology at Chongqing University of Posts and Telecommunications, supervised by <a target="_blank" rel="noopener" href="https://gaocq.github.io/">Prof. Chenqiang Gao</a>.</p>
 <p> My research interests are computer vision and efficient deep learning. More specifically,</p>
 <ul>

diff --git a/Publications/index.html b/Publications/index.html
@@ -1,5 +1,5 @@
 <!DOCTYPE html><html lang="en"><head><meta charset="UTF-8"><meta http-equiv="X-UA-Compatible" content="IE=edge"><meta name="viewport" content="width=device-width, initial-scale=1, maximum-scale=5"><title>Fang Chen (谌放)</title><meta name="author" content="Fang Chen"><link rel="shortcut icon" href="/img/favicon.png"><link rel="stylesheet" href="/css/index.css"><link rel="stylesheet" href="https://cdn.jsdelivr.net/npm/font-awesome@latest/css/font-awesome.min.css"><link rel="stylesheet" href="https://cdn.jsdelivr.net/npm/@fortawesome/fontawesome-free@5.13.0/css/all.min.css"><meta name="generator" content="Hexo 7.1.1"><link rel="alternate" href="/atom.xml" title="Fang Chen (谌放)" type="application/atom+xml">
-</head><body><header id="page_header"><div class="header_wrap"><div id="blog_name"><a class="blog_title" id="site-name" href="/">Fang Chen (谌放)</a></div><button class="menus_icon"><div class="navicon"></div></button><ul class="menus_items"><li class="menus_item"><a class="site-page" href="/Publications"> Publications</a></li><li class="menus_item"><a class="site-page" href="/Experience"> Experience</a></li><li class="menus_item"><a class="site-page" href="/Teaching"> Teaching</a></li></ul></div></header><main id="page_main"><div class="side-card sticky"><div class="card-wrap" itemscope itemtype="http://schema.org/Person"><div class="author-avatar"><img class="avatar-img" src="/img/profile.jpg" onerror="this.onerror=null;this.src='/img/profile_new.jpg'" alt="avatar"></div><div class="author-discrip"><h3>Fang Chen</h3><p class="author-bio">Ph.D. student @ University of California Merced</p></div><div class="author-links"><button class="btn m-social-links">Links</button><ul class="social-icons"><li><a class="social-icon" href="https://github.com/C-Fun" target="_blank"><i class="fab fa-github" aria-hidden="true"></i></a></li><li><a class="social-icon" href="https://www.linkedin.com/in/cfun/" target="_blank"><i class="fab fa-linkedin" aria-hidden="true"></i></a></li><li><a class="social-icon" href="mailto:fchen20@ucmerced.edu" target="_blank"><i class="fas fa-envelope" aria-hidden="true"></i></a></li></ul><ul class="social-links"><li><a class="e-social-link" href="https://scholar.google.com/citations?user=5Hu8vwwAAAAJ&amp;hl=en&amp;authuser=1" target="_blank"><i class="fas fa-graduation-cap" aria-hidden="true"></i><span>Google Scholar</span></a></li></ul></div><a class="cv-links" href="/attaches/CV.pdf" target="_blank"><i class="fas fa-file-pdf" aria-hidden="true"><span>My Curriculum Vitae</span></i></a></div></div><div class="page" itemscope itemtype="http://schema.org/CreativeWork"><h2 class="page-title">Publications</h2><article><ul>
+</head><body><header id="page_header"><div class="header_wrap"><div id="blog_name"><a class="blog_title" id="site-name" href="/">Fang Chen (谌放)</a></div><button class="menus_icon"><div class="navicon"></div></button><ul class="menus_items"><li class="menus_item"><a class="site-page" href="/Publications"> Publications</a></li><li class="menus_item"><a class="site-page" href="/Experience"> Experience</a></li><li class="menus_item"><a class="site-page" href="/Teaching"> Teaching</a></li></ul></div></header><main id="page_main"><div class="side-card sticky"><div class="card-wrap" itemscope itemtype="http://schema.org/Person"><div class="author-avatar"><img class="avatar-img" src="/img/profile_new.jpg" onerror="this.onerror=null;this.src='/img/profile_new.jpg'" alt="avatar"></div><div class="author-discrip"><h3>Fang Chen</h3><p class="author-bio">Ph.D. student @ University of California Merced</p></div><div class="author-links"><button class="btn m-social-links">Links</button><ul class="social-icons"><li><a class="social-icon" href="https://github.com/C-Fun" target="_blank"><i class="fab fa-github" aria-hidden="true"></i></a></li><li><a class="social-icon" href="https://www.linkedin.com/in/cfun/" target="_blank"><i class="fab fa-linkedin" aria-hidden="true"></i></a></li><li><a class="social-icon" href="mailto:fchen20@ucmerced.edu" target="_blank"><i class="fas fa-envelope" aria-hidden="true"></i></a></li></ul><ul class="social-links"><li><a class="e-social-link" href="https://scholar.google.com/citations?user=5Hu8vwwAAAAJ&amp;hl=en&amp;authuser=1" target="_blank"><i class="fas fa-graduation-cap" aria-hidden="true"></i><span>Google Scholar</span></a></li></ul></div><a class="cv-links" href="/attaches/CV.pdf" target="_blank"><i class="fas fa-file-pdf" aria-hidden="true"><span>My Curriculum Vitae</span></i></a></div></div><div class="page" itemscope itemtype="http://schema.org/CreativeWork"><h2 class="page-title">Publications</h2><article><ul>
 <li><p><a href=""><strong>Simq-nas: Simultaneous quantization policy and neural architecture search</strong></a> | <a target="_blank" rel="noopener" href="https://arxiv.org/abs/2312.13301">arxiv</a><br><em>Sharath Nittur Sridhar, Maciej Szankin, <strong>Fang Chen</strong>, Sairam Sundaresan, Anthony Sarah</em><br>AAAI Edge Intelligence Workshop, 2024</p>
 </li>
 <li><p><a target="_blank" rel="noopener" href="https://ieeexplore.ieee.org/abstract/document/10298041"><strong>Infrared Small and Dim Target Detection With Transformer Under Complex Backgrounds</strong></a> | <a target="_blank" rel="noopener" href="https://arxiv.org/abs/2109.14379">arxiv</a><br><em>Fangcen Liu, Chenqiang Gao, <strong>Fang Chen</strong>, Deyu Meng, Wangmeng Zuo, Xinbo Gao</em><br>IEEE Transactions on Image Processing, 2023</p>
